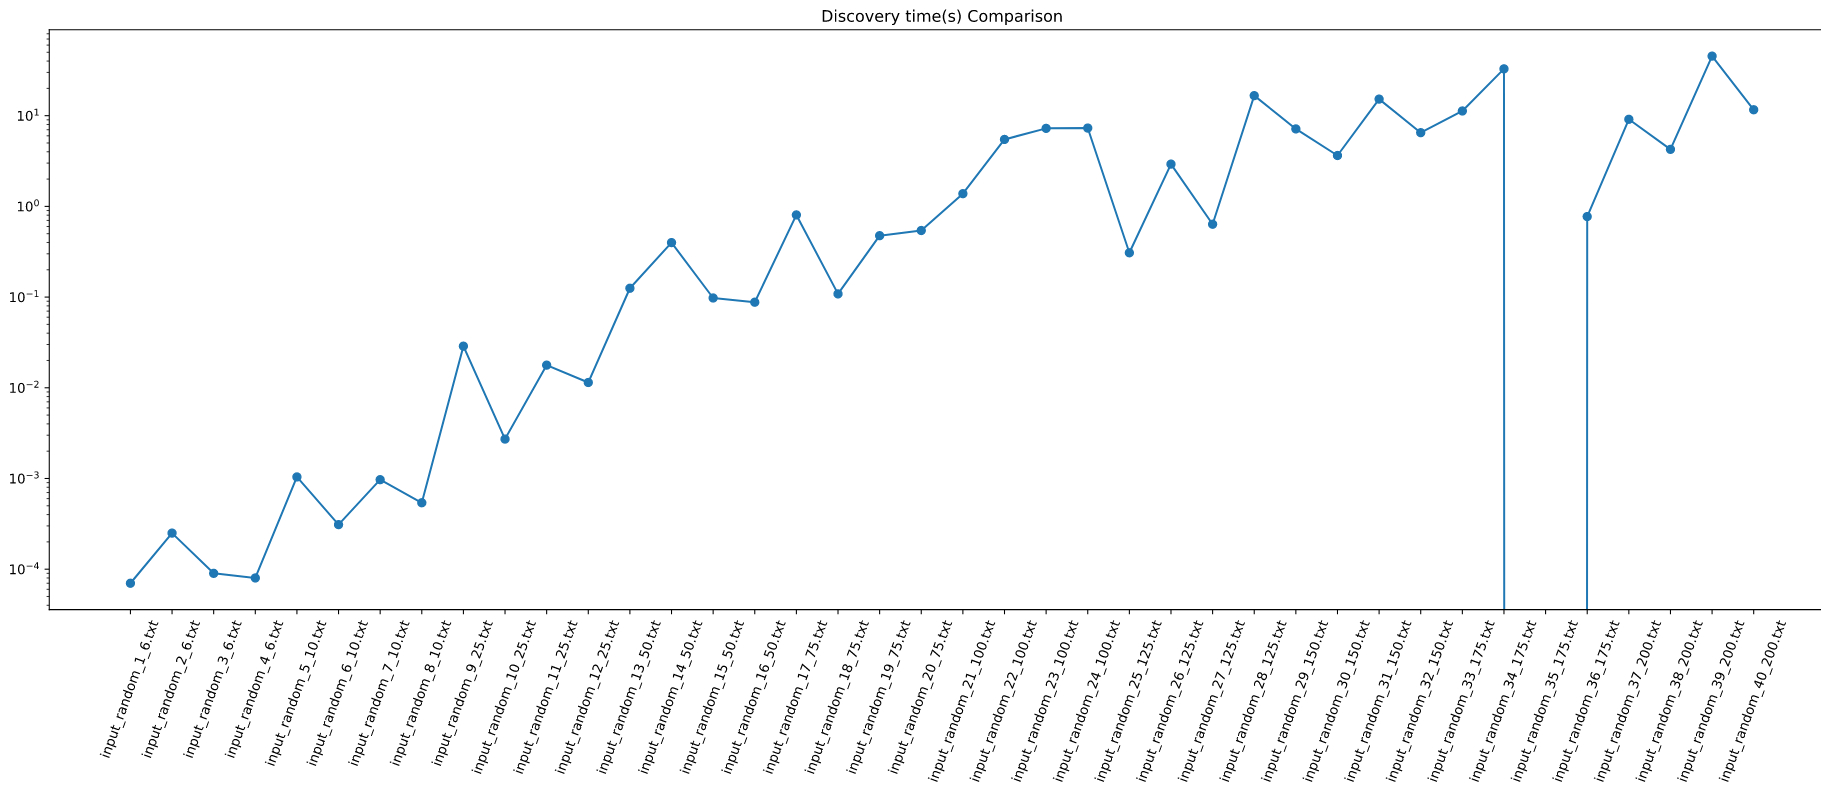
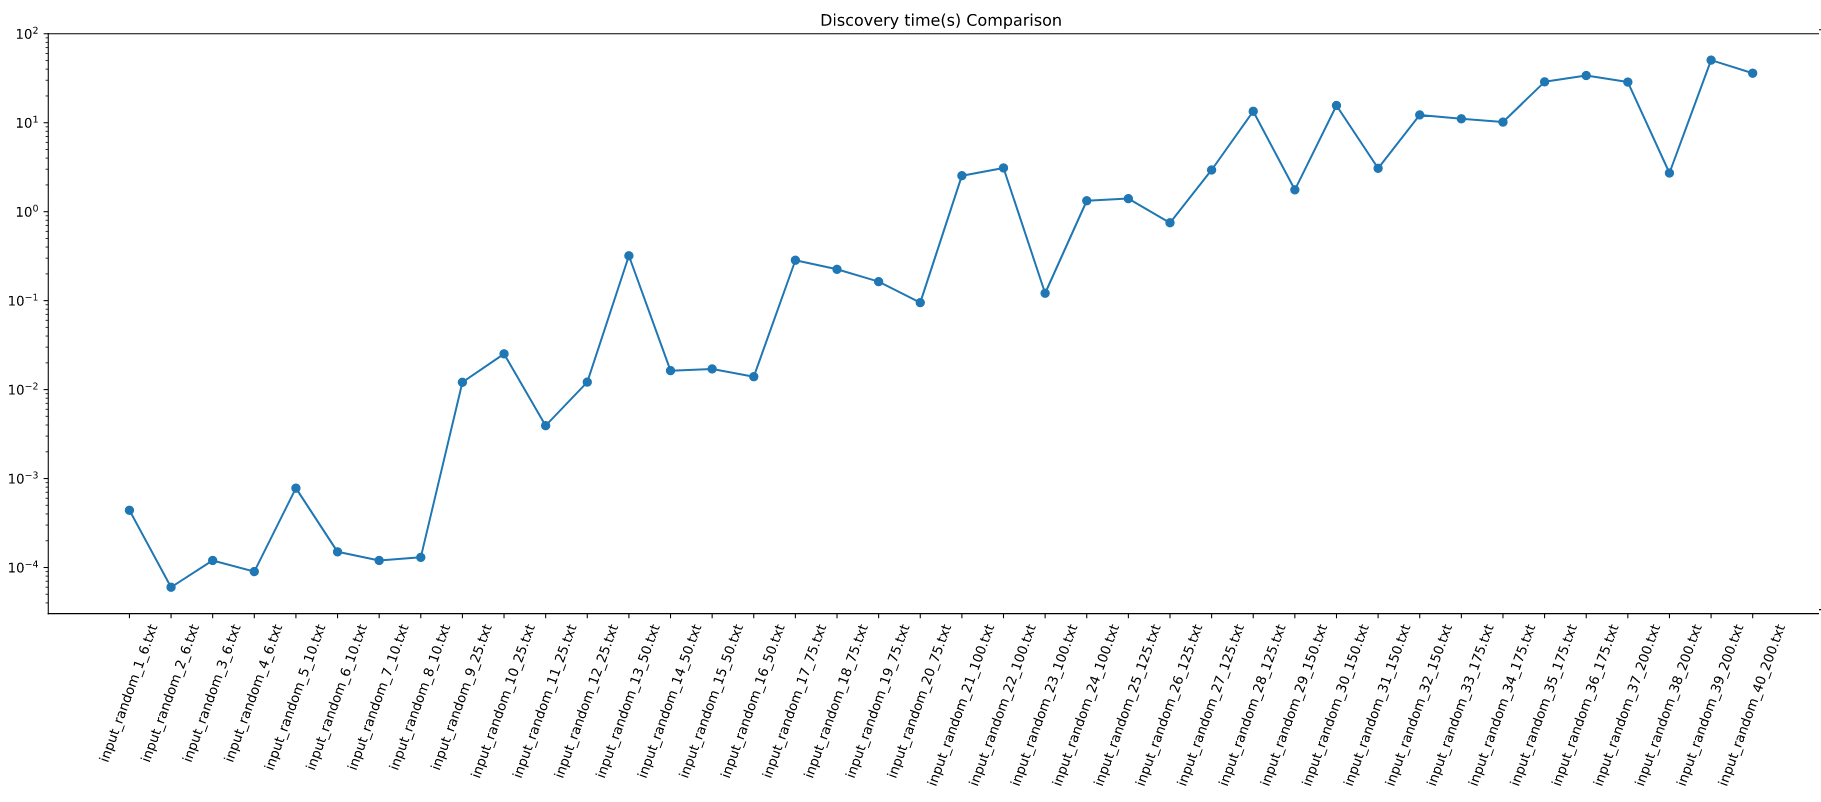
perfect run results

diff --git a/Homework3/Relazione_HW3/Res/Sezioni/risultati_domande.tex b/Homework3/Relazione_HW3/Res/Sezioni/risultati_domande.tex
@@ -5,42 +5,42 @@
 	\begin{tabular}{|c|c|c|c|c|c|}
 		\hline
 		\parbox{2cm}{\centering Istanza} & {Soluzione} & {Tempo(s)} & \parbox{2.75cm}{\vspace{.1cm}\centering Tempo Full Contraction(s)\vspace{.1cm}} & \parbox{2cm}{\centering Discovery time(s)} & {Errore(\%)}\\\hline
-		input\_1\_6.txt & 2 & 0.00141 & 0.00004 & 0.00007 & 0.00\\\hline
-		input\_2\_6.txt & 1 & 0.00150 & 0.00005 & 0.00025 & 0.00\\\hline
-		input\_3\_6.txt & 3 & 0.00273 & 0.00008 & 0.00009 & 0.00\\\hline
-		input\_4\_6.txt & 4 & 0.00174 & 0.00005 & 0.00008 & 0.00\\\hline
-		input\_5\_10.txt & 4 & 0.01946 & 0.00017 & 0.00104 & 0.00\\\hline
-		input\_6\_10.txt & 3 & 0.01202 & 0.00010 & 0.00031 & 0.00\\\hline
-		input\_7\_10.txt & 2 & 0.01239 & 0.00011 & 0.00097 & 0.00\\\hline
-		input\_8\_10.txt & 1 & 0.01542 & 0.00013 & 0.00054 & 0.00\\\hline
-		input\_9\_25.txt & 7 & 1.67183 & 0.00166 & 0.02876 & 0.00\\\hline
-		input\_10\_25.txt & 6 & 1.46698 & 0.00146 & 0.00272 & 0.00\\\hline
-		input\_11\_25.txt & 8 & 1.53236 & 0.00152 & 0.01777 & 0.00\\\hline
-		input\_12\_25.txt & 9 & 1.88351 & 0.00187 & 0.01144 & 0.00\\\hline
-		input\_13\_50.txt & 15 & 60.01287 & 0.01783 & 0.12516 & 0.00\\\hline
-		input\_14\_50.txt & 16 & 60.01281 & 0.01771 & 0.39872 & 0.00\\\hline
-		input\_15\_50.txt & 14 & 60.00493 & 0.01527 & 0.09774 & 0.00\\\hline
-		input\_16\_50.txt & 10 & 60.00451 & 0.01810 & 0.08779 & 0.00\\\hline
-		input\_17\_75.txt & 19 & 60.04385 & 0.05399 & 0.80478 & 0.00\\\hline
-		input\_18\_75.txt & 15 & 60.02898 & 0.05652 & 0.10842 & 0.00\\\hline
-		input\_19\_75.txt & 18 & 60.03607 & 0.05285 & 0.47537 & 0.00\\\hline
-		input\_20\_75.txt & 16 & 60.01307 & 0.05209 & 0.54211 & 0.00\\\hline
-		input\_21\_100.txt & 22 & 60.16583 & 0.31666 & 1.38032 & 0.00\\\hline
-		input\_22\_100.txt & 23 & 60.19073 & 0.29797 & 5.47165 & 0.00\\\hline
-		input\_23\_100.txt & 19 & 60.40467 & 0.49921 & 7.24901 & 0.00\\\hline
-		input\_24\_100.txt & 24 & 60.23327 & 0.48970 & 7.30835 & 0.00\\\hline
-		input\_25\_125.txt & 34 & 60.06483 & 0.34127 & 0.30794 & 0.00\\\hline
-		input\_26\_125.txt & 29 & 60.23933 & 0.29242 & 2.92619 & 0.00\\\hline
-		input\_27\_125.txt & 36 & 60.28340 & 0.32065 & 0.63564 & 0.00\\\hline
-		input\_28\_125.txt & 31 & 60.25255 & 0.29681 & 16.63139 & 0.00\\\hline
-		input\_29\_150.txt & 37 & 60.30918 & 0.60309 & 7.14721 & 0.00\\\hline
-		input\_30\_150.txt & 35 & 60.06559 & 0.56665 & 3.63868 & 0.00\\\hline
-		input\_31\_150.txt & 41 & 60.37704 & 0.52501 & 15.23276 & 0.00\\\hline
-		input\_32\_150.txt & 39 & 60.44232 & 0.54452 & 6.49633 & 0.00\\\hline
-		input\_33\_175.txt & 42 & 60.76502 & 0.94945 & 11.26989 & 0.00\\\hline
-		input\_34\_175.txt & 45 & 60.13704 & 0.93964 & 32.83031 & 0.00\\\hline
-		input\_35\_175.txt & 56 & 60.63988 & 1.10254 & 0.00000 & 5.66\\\hline
-		input\_36\_175.txt & 43 & 60.10445 & 0.82335 & 0.77250 & 0.00\\\hline
+		input\_1\_6.txt & 2 & 0.00228 & 0.00007 & 0.00044 & 0.00\\\hline
+		input\_2\_6.txt & 1 & 0.00174 & 0.00005 & 0.00006 & 0.00\\\hline
+		input\_3\_6.txt & 3 & 0.00209 & 0.00006 & 0.00012 & 0.00\\\hline
+		input\_4\_6.txt & 4 & 0.00170 & 0.00005 & 0.00009 & 0.00\\\hline
+		input\_5\_10.txt & 4 & 0.01729 & 0.00015 & 0.00078 & 0.00\\\hline
+		input\_6\_10.txt & 3 & 0.01288 & 0.00011 & 0.00015 & 0.00\\\hline
+		input\_7\_10.txt & 2 & 0.01303 & 0.00011 & 0.00012 & 0.00\\\hline
+		input\_8\_10.txt & 1 & 0.01215 & 0.00011 & 0.00013 & 0.00\\\hline
+		input\_9\_25.txt & 7 & 1.34433 & 0.00134 & 0.01209 & 0.00\\\hline
+		input\_10\_25.txt & 6 & 1.31912 & 0.00131 & 0.02524 & 0.00\\\hline
+		input\_11\_25.txt & 8 & 1.38386 & 0.00138 & 0.00393 & 0.00\\\hline
+		input\_12\_25.txt & 9 & 1.83993 & 0.00183 & 0.01214 & 0.00\\\hline
+		input\_13\_50.txt & 15 & 60.01566 & 0.01666 & 0.31949 & 0.00\\\hline
+		input\_14\_50.txt & 16 & 60.00023 & 0.01735 & 0.01634 & 0.00\\\hline
+		input\_15\_50.txt & 14 & 60.00337 & 0.01405 & 0.01708 & 0.00\\\hline
+		input\_16\_50.txt & 10 & 60.00059 & 0.01717 & 0.01396 & 0.00\\\hline
+		input\_17\_75.txt & 19 & 60.04531 & 0.05812 & 0.28464 & 0.00\\\hline
+		input\_18\_75.txt & 15 & 60.05066 & 0.05987 & 0.22496 & 0.00\\\hline
+		input\_19\_75.txt & 18 & 60.03110 & 0.05914 & 0.16354 & 0.00\\\hline
+		input\_20\_75.txt & 16 & 60.02701 & 0.05139 & 0.09496 & 0.00\\\hline
+		input\_21\_100.txt & 22 & 60.00147 & 0.12987 & 2.53955 & 0.00\\\hline
+		input\_22\_100.txt & 23 & 60.08396 & 0.11599 & 3.10299 & 0.00\\\hline
+		input\_23\_100.txt & 19 & 60.02514 & 0.12826 & 0.12116 & 0.00\\\hline
+		input\_24\_100.txt & 24 & 60.06026 & 0.12591 & 1.32756 & 0.00\\\hline
+		input\_25\_125.txt & 34 & 60.20452 & 0.29368 & 1.40238 & 0.00\\\hline
+		input\_26\_125.txt & 29 & 60.02135 & 0.26558 & 0.75063 & 0.00\\\hline
+		input\_27\_125.txt & 36 & 60.24215 & 0.30272 & 2.94239 & 0.00\\\hline
+		input\_28\_125.txt & 31 & 60.17579 & 0.26277 & 13.44911 & 0.00\\\hline
+		input\_29\_150.txt & 37 & 60.16308 & 0.56227 & 1.76109 & 0.00\\\hline
+		input\_30\_150.txt & 35 & 60.34957 & 0.51581 & 15.62627 & 0.00\\\hline
+		input\_31\_150.txt & 41 & 60.16005 & 0.51419 & 3.07488 & 0.00\\\hline
+		input\_32\_150.txt & 39 & 60.05670 & 0.53622 & 12.24101 & 0.00\\\hline
+		input\_33\_175.txt & 42 & 60.22020 & 0.92646 & 11.07539 & 0.00\\\hline
+		input\_34\_175.txt & 45 & 60.65118 & 0.91895 & 10.16296 & 0.00\\\hline
+		input\_35\_175.txt & 53 & 60.76624 & 1.06607 & 28.81443 & 0.00\\\hline
+		input\_36\_175.txt & 43 & 60.72785 & 0.84344 & 33.94806 & 0.00\\\hline
 	\end{tabular}
 \end{center}
 
@@ -50,10 +50,10 @@
 	\begin{tabular}{|c|c|c|c|c|c|}
 		\hline
 		\parbox{2cm}{\centering Istanza} & {Soluzione} & {Tempo(s)} & \parbox{2.75cm}{\vspace{.1cm}\centering Tempo Full Contraction(s)\vspace{.1cm}} & \parbox{2cm}{\centering Discovery time(s)} & {Errore(\%)}\\\hline
-		input\_37\_200.txt & 54 & 60.39597 & 1.63232 & 9.12334 & 0.00\\\hline
-		input\_38\_200.txt & 52 & 61.05227 & 1.45362 & 4.25531 & 0.00\\\hline
-		input\_39\_200.txt & 51 & 60.78339 & 1.59956 & 45.36848 & 0.00\\\hline
-		input\_40\_200.txt & 61 & 60.32121 & 1.77415 & 11.62609 & 0.00\\\hline
+		input\_37\_200.txt & 54 & 60.28828 & 1.58653 & 28.65111 & 0.00\\\hline
+		input\_38\_200.txt & 52 & 60.42248 & 1.40517 & 2.72059 & 0.00\\\hline
+		input\_39\_200.txt & 51 & 60.90992 & 1.52275 & 50.57414 & 0.00\\\hline
+		input\_40\_200.txt & 61 & 60.02180 & 1.66727 & 36.01279 & 0.00\\\hline
 	\end{tabular}
 \end{center}
 
